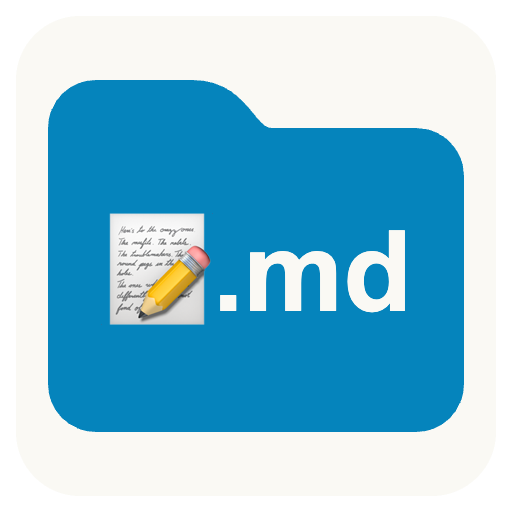
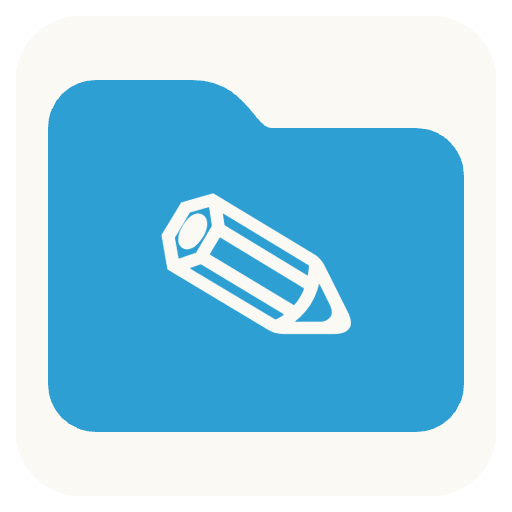
add new signature color

diff --git a/web/lib/theme-dark.css b/web/lib/theme-dark.css
@@ -7,8 +7,8 @@
         --color-bg-alt: #1F1E1D;
         --color-inline-code: #E76B6B;
         --color-inline-code-bg: #2E2E2B;
-        --color-link: #0584BC;
-        --color-link-hover: #2D9FD2;
+        --color-link: #2D9FD2;
+        --color-link-hover: #57AFDC;
         --color-url: #AAB0BE;
         --color-tx-sel: rgba(101, 123, 131, 0.2);
         --color-bg-active: #0F0F0E;

diff --git a/web/lib/theme-light.css b/web/lib/theme-light.css
@@ -7,8 +7,8 @@
         --color-bg-alt: #F9F9F9;
         --color-inline-code: #657b83;
         --color-inline-code-bg: #d8dae0;
-        --color-link: #0584BC;
-        --color-link-hover: #2D9FD2;
+        --color-link: #2D9FD2;
+        --color-link-hover: #57AFDC;
         --color-url: #706f6b;
         --color-tx-sel: rgba(101, 123, 131, 0.2);
         --color-bg-active: #EFEFEF;

diff --git a/web/app.css b/web/app.css
@@ -255,7 +255,7 @@ a:hover {
 .cm-s-hypermd-light span.cm-link, .cm-s-hypermd-light .cm-string.cm-url.cm-hmd-barelink {
     color: var(--color-link) !important;
     /*font-weight: 450;*/
-    border-bottom:0.04em solid rgba(50,50,50,.25);
+    border-bottom:0.04em solid var(--color-border);
 }
 
 .cm-s-hypermd-light span.cm-link:hover, .cm-s-hypermd-light .cm-string.cm-url.cm-hmd-barelink:hover {
@@ -371,6 +371,7 @@ a:hover {
 
 button svg {
     display: block;
+    stroke: var(--color-link) !important;
 }
 
 #sidebar-toolbar button:hover {

diff --git a/web/app.html b/web/app.html
@@ -49,7 +49,7 @@
         <div id="sidebar-toolbar">
             <button id="new-file" title="New file" onclick="newFile()">
                 <svg xmlns="http://www.w3.org/2000/svg" width="24" height="24" fill="none" viewBox="0 0 32 32">
-                    <path stroke="#535358" stroke-linecap="round" stroke-linejoin="round" stroke-width="2"
+                    <path stroke-linecap="round" stroke-linejoin="round" stroke-width="2"
                           d="M16 25V7M7 16h18"/>
                 </svg>
             </button>